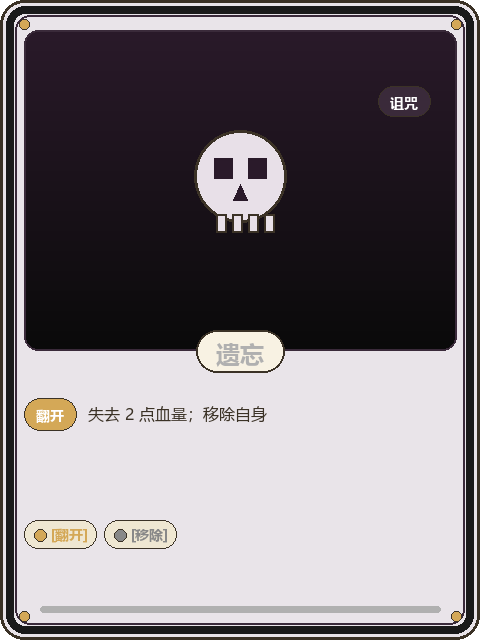
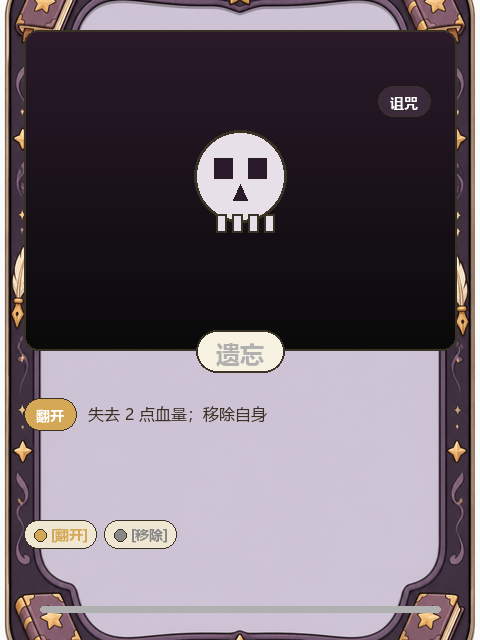
art: 卡框v3——框体与通用卡背改AI绘制（四类型装饰边框+可可书封宝珠卡背），布局沿用v2，程序仅合成插画窗与文字，供拍板

diff --git a/.agents/skills/mh-art/scripts/card_frame_mockup.py b/.agents/skills/mh-art/scripts/card_frame_mockup.py
@@ -1,15 +1,13 @@
 #!/usr/bin/env python3
-"""卡框设计稿合成器 v2——《记忆勇者》整卡 480×640 视觉方案 mockup。
+"""卡框设计稿合成器 v3——《记忆勇者》整卡 480×640 视觉方案 mockup。
 
-v2 修订（用户反馈 v1"像文字游戏"）：
-  - 插画主导：插画窗 432×320（原 400×240），卡名铭牌压在插画下沿
-  - 效果图标化：配对效果 = 标签胶囊 + 类型色大数字徽章 + 单位，不再整段文字
-  - 词条只留胶囊（图标点 + 词条名），完整描述交给悬浮预览（240×320 显示时文字本就不可读）
-  - 无面板框：文字直接排在奶油卡体上，减少"表单感"
-  - 新增通用卡背（v1 无）：深可可书封底 + 奶油翻书 + 古金记忆宝珠徽记，
-    全类型共用（§2.3 的四色卡背随之作废——类型信息翻牌前不可见）
+v3 修订（用户反馈：布局 OK，但 PIL 手绘框体"简陋、不简约"）：
+  - 框体与卡背改由 AI 绘制（与插画同风格体系），存 ImageReview/cards/frame_*.png
+    与 cardback_universal.png；本脚本只负责把插画窗 + 文字元素按定稿布局合成上去
+  - 布局沿用 v2（插画主导 432×320、铭牌压插画、配对大数字徽章、词条胶囊）
+  - AI 源图 1024×1536（2:3）居中裁到 3:4 后缩放 480×640
 
-用法（仓库根目录）：
+用法（仓库根目录，先生成 frame_*.png / cardback_universal.png）：
     python .agents/skills/mh-art/scripts/card_frame_mockup.py
 输出：ImageReview/cards/cardframe_{attack,skill,ability,curse,back}.png
 """
@@ -20,19 +18,13 @@ import sys
 from PIL import Image, ImageDraw, ImageFont
 
 W, H = 480, 640
-RADIUS = 24
 INK = (59, 50, 38, 255)            # #3B3226 深可可
-BODY = (248, 242, 227, 255)        # #F8F2E3 亮纸卡体
-BODY_CURSE = (233, 228, 233, 255)  # 诅咒卡体（偏灰紫）
+BODY = (248, 242, 227, 255)        # #F8F2E3 亮纸（铭牌底）
 PANEL = (239, 231, 210, 255)       # #EFE7D2 胶囊底
 GOLD = (212, 168, 87, 255)         # #D4A857 古金
-COPPER = (200, 127, 58, 255)       # #C87F3A 暖铜
 GREEN = (91, 168, 91, 255)         # #5BA85B 匹配型词条
 GREY = (136, 136, 136, 255)        # 移除词条
 WHITE = (255, 255, 255, 255)
-CREAM = (242, 235, 217, 255)       # #F2EBD9 奶油纸
-BACK_BODY = (74, 58, 42, 255)      # 卡背深可可书封
-BACK_BAND = (46, 36, 26, 255)      # 卡背边带（更深）
 
 TYPES = {
     "attack":  dict(dark=(139, 44, 44),  light=(212, 69, 69),  label="攻击"),
@@ -66,6 +58,17 @@ def wrap(d, text, fnt, max_w):
     return lines
 
 
+def load_base(raw_path):
+    """AI 框体源图（1024×1536，2:3）→ 居中裁 3:4 → 480×640。"""
+    art = Image.open(raw_path).convert("RGBA")
+    src_w, src_h = art.size
+    target_h = int(src_w * 4 / 3)
+    if src_h > target_h:
+        top = (src_h - target_h) // 2
+        art = art.crop((0, top, src_w, top + target_h))
+    return art.resize((W, H), Image.LANCZOS)
+
+
 def paste_art(card, art_path, box):
     """插画居中偏上裁切铺满插画窗；无插画时绘制诅咒占位骷髅。"""
     x0, y0, x1, y1 = box
@@ -96,17 +99,6 @@ def paste_art(card, art_path, box):
     card.paste(art, (x0, y0), mask)
 
 
-def draw_frame(card, band_dark, band_light, body):
-    band_dark = tuple(band_dark) if len(band_dark) == 4 else tuple(band_dark) + (255,)
-    band_light = tuple(band_light) if len(band_light) == 4 else tuple(band_light) + (255,)
-    d = ImageDraw.Draw(card)
-    d.rounded_rectangle([0, 0, W - 1, H - 1], RADIUS, fill=body, outline=INK, width=3)
-    d.rounded_rectangle([6, 6, W - 7, H - 7], RADIUS - 5, outline=band_dark, width=8)
-    d.rounded_rectangle([15, 15, W - 16, H - 16], RADIUS - 9, outline=band_light, width=2)
-    for cx, cy in [(24, 24), (W - 24, 24), (24, H - 24), (W - 24, H - 24)]:
-        d.ellipse([cx - 5, cy - 5, cx + 5, cy + 5], fill=GOLD, outline=INK, width=1)
-
-
 def chip(d, x, y, text, bg, fg=WHITE, fnt=None, pad_x=12, h=28):
     bg = tuple(bg) if len(bg) == 4 else tuple(bg) + (255,)
     fnt = fnt or font(14, bold=True)
@@ -116,7 +108,7 @@ def chip(d, x, y, text, bg, fg=WHITE, fnt=None, pad_x=12, h=28):
     return x + tw + pad_x * 2
 
 
-def nameplate(d, name, rarity_color, y=372):
+def nameplate(d, name, rarity_color, y=330):
     fnt = font(24, bold=True)
     tw = d.textlength(name, font=fnt)
     x0 = (W - tw) // 2 - 20
@@ -153,7 +145,7 @@ def tag_chips(d, tags, y):
 
 def effect_rows(d, t, y, pair, flip):
     """配对效果（标签+数字徽章+单位）与翻开效果（标签+短句）。"""
-    label_fnt, text_fnt = font(15, bold=True), font(16)
+    text_fnt = font(16)
     if pair:
         kind, value, unit = pair
         x = chip(d, 24, y, "配对", t["dark"], h=32)
@@ -169,13 +161,12 @@ def effect_rows(d, t, y, pair, flip):
     return y
 
 
-def make_standard(type_key, name, rarity, art_path, pair, flip, tags):
+def make_standard(type_key, frame_path, name, rarity, art_path, pair, flip, tags):
     t, rc = TYPES[type_key], RARITY[rarity]
-    card = Image.new("RGBA", (W, H), (0, 0, 0, 0))
-    draw_frame(card, t["dark"], t["light"], BODY_CURSE if type_key == "curse" else BODY)
+    card = load_base(frame_path)
     d = ImageDraw.Draw(card)
     paste_art(card, art_path, (24, 30, 456, 350))
-    d.rounded_rectangle([24, 30, 456, 350], 14, outline=t["light"] + (255,), width=2)
+    d.rounded_rectangle([24, 30, 456, 350], 14, outline=INK, width=2)
     type_badge(d, t)
     nameplate(d, name, rc, y=330)
     y = effect_rows(d, t, 398, pair, flip)
@@ -184,17 +175,16 @@ def make_standard(type_key, name, rarity, art_path, pair, flip, tags):
     return card
 
 
-def make_ability(name, rarity, art_path, sustain_lines, flip, tags):
+def make_ability(frame_path, name, rarity, art_path, sustain_lines, flip, tags):
     t, rc = TYPES["ability"], RARITY[rarity]
-    card = Image.new("RGBA", (W, H), (0, 0, 0, 0))
-    draw_frame(card, t["dark"], t["light"], BODY)
+    card = load_base(frame_path)
     d = ImageDraw.Draw(card)
     paste_art(card, art_path, (24, 30, 456, 300))
-    d.rounded_rectangle([24, 30, 456, 300], 14, outline=t["light"] + (255,), width=2)
+    d.rounded_rectangle([24, 30, 456, 300], 14, outline=INK, width=2)
     type_badge(d, t)
     nameplate(d, name, rc, y=280)
     text_fnt = font(15)
-    x = chip(d, 24, 342, "◆ 持续（背面在桌面时）", t["light"], h=30)
+    chip(d, 24, 342, "◆ 持续（背面在桌面时）", t["light"], h=30)
     y = 380
     for ln in sustain_lines[:2]:
         d.text((24, y), ln, font=text_fnt, fill=INK)
@@ -206,59 +196,25 @@ def make_ability(name, rarity, art_path, sustain_lines, flip, tags):
     return card
 
 
-def star(d, cx, cy, r, color):
-    d.line([(cx - r, cy), (cx + r, cy)], fill=color, width=3)
-    d.line([(cx, cy - r), (cx, cy + r)], fill=color, width=3)
-
-
-def make_back():
-    """通用卡背：深可可书封 + 奶油翻书 + 古金记忆宝珠，全类型共用。"""
-    card = Image.new("RGBA", (W, H), (0, 0, 0, 0))
-    draw_frame(card, BACK_BAND, GOLD, BACK_BODY)
-    d = ImageDraw.Draw(card)
-    # 内衬装饰环
-    d.rounded_rectangle([44, 44, 435, 595], 16, outline=GOLD, width=2)
-    # 徽记：古金宝珠 + 奶油摊开的书
-    cx = W // 2
-    orb_y, book_y = 236, 330
-    d.ellipse([cx - 34, orb_y - 34, cx + 34, orb_y + 34], fill=GOLD, outline=INK, width=3)
-    d.ellipse([cx - 12, orb_y - 22, cx + 10, orb_y], fill=(240, 214, 150, 255))  # 高光
-    d.rounded_rectangle([cx - 92, book_y, cx - 8, book_y + 78], 10, fill=CREAM, outline=INK, width=3)
-    d.rounded_rectangle([cx + 8, book_y, cx + 92, book_y + 78], 10, fill=CREAM, outline=INK, width=3)
-    d.line([(cx, book_y - 6), (cx, book_y + 84)], fill=INK, width=3)
-    # 书页线
-    for i in range(3):
-        yy = book_y + 20 + i * 16
-        d.line([(cx - 76, yy), (cx - 24, yy)], fill=(138, 122, 96, 255), width=3)
-        d.line([(cx + 24, yy), (cx + 76, yy)], fill=(138, 122, 96, 255), width=3)
-    # 星点装饰
-    star(d, cx - 96, orb_y - 40, 9, GOLD)
-    star(d, cx + 98, orb_y - 28, 7, GOLD)
-    star(d, cx + 88, orb_y + 52, 6, GOLD)
-    star(d, cx - 84, orb_y + 60, 6, GOLD)
-    # 上下小菱形
-    for yy in (110, 530):
-        d.polygon([(cx, yy - 10), (cx + 10, yy), (cx, yy + 10), (cx - 10, yy)],
-                  fill=GOLD, outline=INK)
-    return card
-
-
 def main():
     out = os.path.join("ImageReview", "cards")
 
     make_standard(
-        "attack", "笔记", "普通", os.path.join(out, "card_attack_biji_1.png"),
+        "attack", os.path.join(out, "frame_attack.png"),
+        "笔记", "普通", os.path.join(out, "card_attack_biji_1.png"),
         pair=("atk", 6, "伤害"), flip=None,
         tags=[("[笔记]", GREEN)],
     ).save(os.path.join(out, "cardframe_attack.png"))
 
     make_standard(
-        "skill", "速读", "普通", os.path.join(out, "card_skill_sudu_1.png"),
+        "skill", os.path.join(out, "frame_skill.png"),
+        "速读", "普通", os.path.join(out, "card_skill_sudu_1.png"),
         pair=("block", 4, "格挡"), flip="随机揭示周围 1 张背面牌",
         tags=[("[翻开]", GOLD)],
     ).save(os.path.join(out, "cardframe_skill.png"))
 
     make_ability(
+        os.path.join(out, "frame_ability.png"),
         "全神贯注", "普通", os.path.join(out, "card_ability_quanshenguanzhu_1.png"),
         ["每翻开一张牌，获得 1 点「专注」", "专注：下次配对伤害 +1，触发后消耗"],
         flip="获得 2 点格挡",
@@ -266,12 +222,14 @@ def main():
     ).save(os.path.join(out, "cardframe_ability.png"))
 
     make_standard(
-        "curse", "遗忘", "普通", None,
+        "curse", os.path.join(out, "frame_curse.png"),
+        "遗忘", "普通", None,
         pair=None, flip="失去 2 点血量；移除自身",
         tags=[("[翻开]", GOLD), ("[移除]", GREY)],
     ).save(os.path.join(out, "cardframe_curse.png"))
 
-    make_back().save(os.path.join(out, "cardframe_back.png"))
+    load_base(os.path.join(out, "cardback_universal.png")).save(
+        os.path.join(out, "cardframe_back.png"))
 
     print("Saved: cardframe_attack / skill / ability / curse / back ->", out)
 
